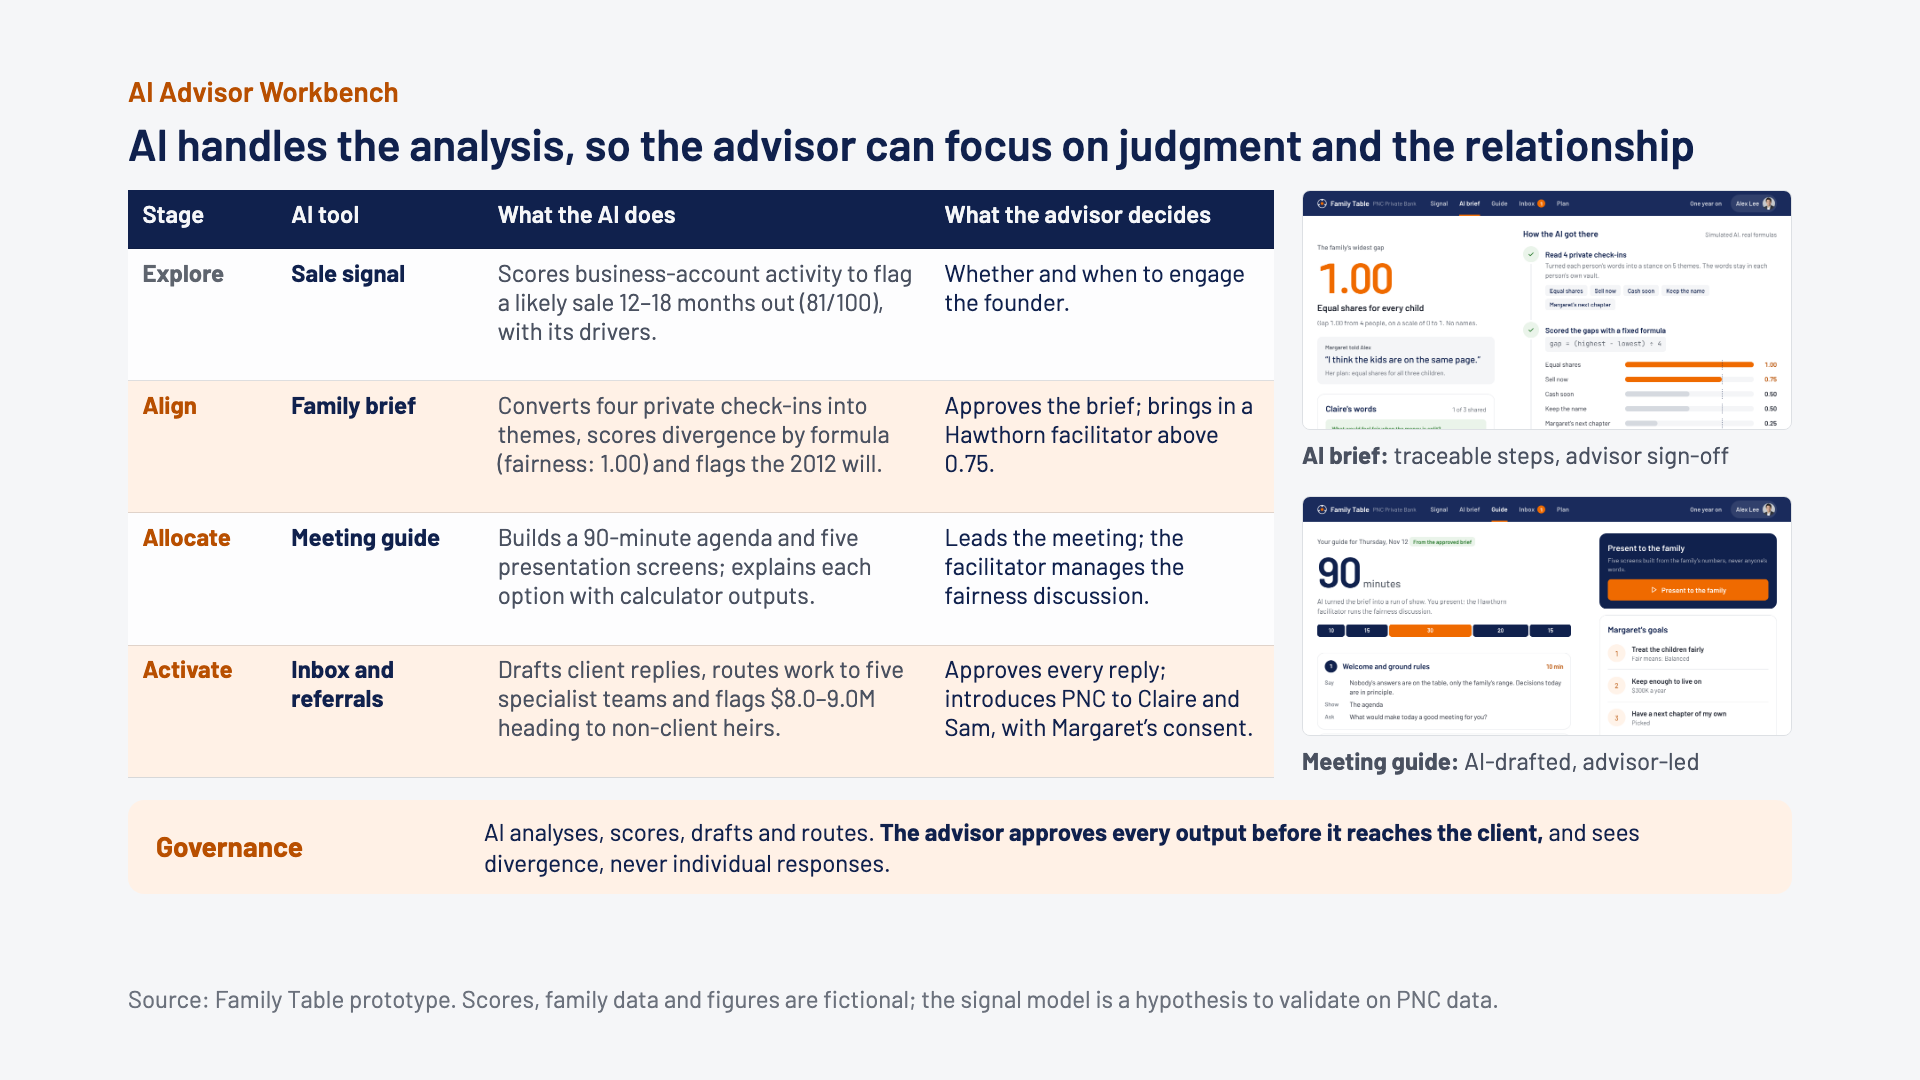
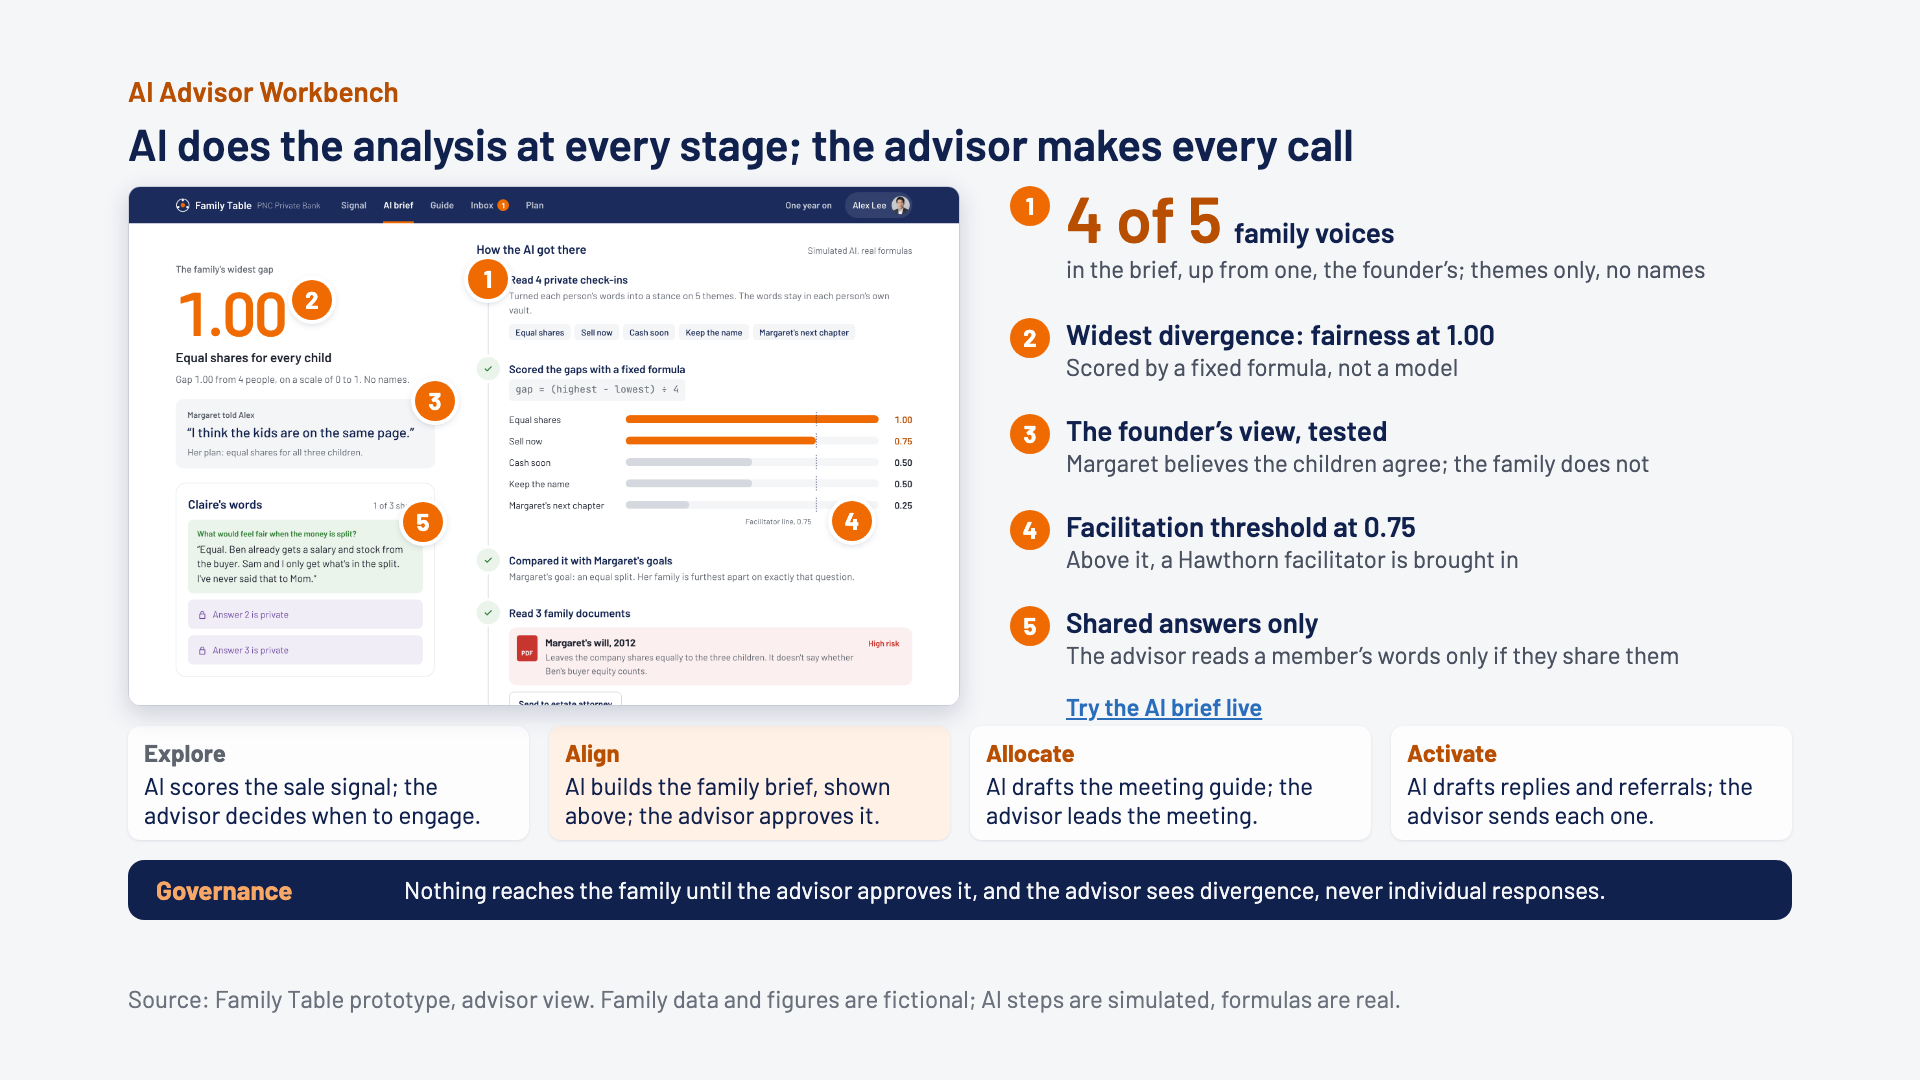
Advisor slide: annotated AI brief with five callouts, 4 of 5 voices as the proof point, AI-at-every-stage strip

Changed region(s): [[0.0625, 0.1222, 0.9375, 0.8556], [0.25, 0.9167, 0.7812, 0.9472]]

diff --git a/slides/claude_three/slides/advisor.html b/slides/claude_three/slides/advisor.html
@@ -1,28 +1,18 @@
-<section id="advisor" data-transition="fade" style="background:#F5F6F8;color:#10214D;font-family:'Barlow', Arial, sans-serif;padding:72px 128px 160px;display:flex;flex-direction:column;gap:22px">
+<section id="advisor" data-transition="fade" style="background:#F5F6F8;color:#10214D;font-family:'Barlow', Arial, sans-serif;padding:72px 128px 160px;display:flex;flex-direction:column;gap:20px">
+<img src="/_blob/6eb613845ab2e6ec5be912857ccf9d0f" alt="The advisor's AI brief: widest gap 1.00 on equal shares, Margaret's quote that the kids agree, Claire's one shared answer, and the AI's traceable steps with gap bars against a 0.75 facilitator line" style="position:absolute;left:128px;top:186px;width:832px;height:520px;object-fit:cover;object-position:top;border:1px solid #C9CED6;border-radius:12px;box-shadow:0px 8px 24px rgba(16,33,77,0.18)">
+<p style="position:absolute;left:468px;top:259px;width:40px;height:40px;font-size:24px;font-weight:700;line-height:1.67;color:#FFFFFF;background:#EF6A00;border-radius:50%;text-align:center;box-shadow:0px 0px 0px 4px #FFFFFF, 0px 2px 8px rgba(16,33,77,0.35)">1</p><p style="position:absolute;left:292px;top:280px;width:40px;height:40px;font-size:24px;font-weight:700;line-height:1.67;color:#FFFFFF;background:#EF6A00;border-radius:50%;text-align:center;box-shadow:0px 0px 0px 4px #FFFFFF, 0px 2px 8px rgba(16,33,77,0.35)">2</p><p style="position:absolute;left:415px;top:381px;width:40px;height:40px;font-size:24px;font-weight:700;line-height:1.67;color:#FFFFFF;background:#EF6A00;border-radius:50%;text-align:center;box-shadow:0px 0px 0px 4px #FFFFFF, 0px 2px 8px rgba(16,33,77,0.35)">3</p><p style="position:absolute;left:832px;top:501px;width:40px;height:40px;font-size:24px;font-weight:700;line-height:1.67;color:#FFFFFF;background:#EF6A00;border-radius:50%;text-align:center;box-shadow:0px 0px 0px 4px #FFFFFF, 0px 2px 8px rgba(16,33,77,0.35)">4</p><p style="position:absolute;left:403px;top:502px;width:40px;height:40px;font-size:24px;font-weight:700;line-height:1.67;color:#FFFFFF;background:#EF6A00;border-radius:50%;text-align:center;box-shadow:0px 0px 0px 4px #FFFFFF, 0px 2px 8px rgba(16,33,77,0.35)">5</p>
+<div style="position:absolute;left:1010px;top:186px;width:782px;display:flex;flex-direction:row;gap:16px"><p style="width:40px;height:40px;font-size:24px;font-weight:700;line-height:1.67;color:#FFFFFF;background:#EF6A00;border-radius:50%;text-align:center">1</p><div style="flex:1;display:flex;flex-direction:column;gap:2px"><div style="display:flex;flex-direction:row;gap:12px;align-items:baseline"><p style="font-size:64px;font-weight:600;line-height:1;color:#B84F00">4 of 5</p><p style="font-size:28px;font-weight:600;color:#10214D">family voices</p></div><p style="font-size:24px;line-height:1.25;color:#4A5160">in the brief, up from one, the founder’s; themes only, no names</p></div></div><div style="position:absolute;left:1010px;top:318px;width:782px;display:flex;flex-direction:row;gap:16px"><p style="width:40px;height:40px;font-size:24px;font-weight:700;line-height:1.67;color:#FFFFFF;background:#EF6A00;border-radius:50%;text-align:center">2</p><div style="flex:1;display:flex;flex-direction:column;gap:2px"><h3 style="font-size:28px;font-weight:600;line-height:1.15;color:#10214D">Widest divergence: fairness at 1.00</h3><p style="font-size:24px;line-height:1.25;color:#4A5160">Scored by a fixed formula, not a model</p></div></div><div style="position:absolute;left:1010px;top:414px;width:782px;display:flex;flex-direction:row;gap:16px"><p style="width:40px;height:40px;font-size:24px;font-weight:700;line-height:1.67;color:#FFFFFF;background:#EF6A00;border-radius:50%;text-align:center">3</p><div style="flex:1;display:flex;flex-direction:column;gap:2px"><h3 style="font-size:28px;font-weight:600;line-height:1.15;color:#10214D">The founder’s view, tested</h3><p style="font-size:24px;line-height:1.25;color:#4A5160">Margaret believes the children agree; the family does not</p></div></div><div style="position:absolute;left:1010px;top:510px;width:782px;display:flex;flex-direction:row;gap:16px"><p style="width:40px;height:40px;font-size:24px;font-weight:700;line-height:1.67;color:#FFFFFF;background:#EF6A00;border-radius:50%;text-align:center">4</p><div style="flex:1;display:flex;flex-direction:column;gap:2px"><h3 style="font-size:28px;font-weight:600;line-height:1.15;color:#10214D">Facilitation threshold at 0.75</h3><p style="font-size:24px;line-height:1.25;color:#4A5160">Above it, a Hawthorn facilitator is brought in</p></div></div><div style="position:absolute;left:1010px;top:606px;width:782px;display:flex;flex-direction:row;gap:16px"><p style="width:40px;height:40px;font-size:24px;font-weight:700;line-height:1.67;color:#FFFFFF;background:#EF6A00;border-radius:50%;text-align:center">5</p><div style="flex:1;display:flex;flex-direction:column;gap:2px"><h3 style="font-size:28px;font-weight:600;line-height:1.15;color:#10214D">Shared answers only</h3><p style="font-size:24px;line-height:1.25;color:#4A5160">The advisor reads a member’s words only if they share them</p></div></div>
+<p style="position:absolute;left:1066px;top:690px;width:700px;font-size:24px;font-weight:600"><a href="https://rzrizaldy.github.io/pnc_csl_2026/prototype/?reset#/advisor/align" style="color:#2A6EBB">Try the AI brief live</a></p>
 <div style="display:flex;flex-direction:column;gap:8px">
 <p style="font-size:28px;font-weight:600;color:#B84F00">AI Advisor Workbench</p>
-<h2 style="font-size:44px;font-weight:600;line-height:1.12;color:#10214D">AI handles the analysis, so the advisor can focus on judgment and the relationship</h2>
+<h2 style="font-size:44px;font-weight:600;line-height:1.12;color:#10214D">AI does the analysis at every stage; the advisor makes every call</h2>
 </div>
-<div style="display:flex;flex-direction:row;gap:28px">
-<table style="width:1146px;font-family:'Barlow', Arial, sans-serif;font-size:24px;color:#10214D">
-<tr style="background:#10214D"><th style="width:13%;color:#F5F6F8">Stage</th><th style="width:18%;color:#F5F6F8">AI tool</th><th style="width:39%;color:#F5F6F8">What the AI does</th><th style="width:30%;color:#F5F6F8">What the advisor decides</th></tr>
-<tr style="background:#FDFDFE"><td style="color:#5E646E"><b>Explore</b></td><td><b>Sale signal</b></td><td style="color:#4A5160">Scores business-account activity to flag a likely sale 12–18 months out (81/100), with its drivers.</td><td>Whether and when to engage the founder.</td></tr>
-<tr style="background:#FFF1E6"><td style="color:#B84F00"><b>Align</b></td><td><b>Family brief</b></td><td style="color:#4A5160">Converts four private check-ins into themes, scores divergence by formula (fairness: 1.00) and flags the 2012 will.</td><td>Approves the brief; brings in a Hawthorn facilitator above 0.75.</td></tr>
-<tr style="background:#FDFDFE"><td style="color:#B84F00"><b>Allocate</b></td><td><b>Meeting guide</b></td><td style="color:#4A5160">Builds a 90-minute agenda and five presentation screens; explains each option with calculator outputs.</td><td>Leads the meeting; the facilitator manages the fairness discussion.</td></tr>
-<tr style="background:#FFF1E6"><td style="color:#B84F00"><b>Activate</b></td><td><b>Inbox and referrals</b></td><td style="color:#4A5160">Drafts client replies, routes work to five specialist teams and flags $8.0–9.0M heading to non-client heirs.</td><td>Approves every reply; introduces PNC to Claire and Sam, with Margaret’s consent.</td></tr>
-</table>
-<div style="flex:1;display:flex;flex-direction:column;gap:8px">
-<img src="/_blob/e28ff431a61dd2cc888fb85e2d6329ba" alt="AI brief: the widest gap is 1.00 on equal shares, against Margaret's belief that the kids agree, with each AI step shown" style="width:490px;height:240px;object-fit:cover;object-position:top;border:1px solid #DDE0E4;border-radius:8px">
-<p style="font-size:24px;color:#4A5160"><b>AI brief:</b> traceable steps, advisor sign-off</p>
-<div style="height:8px"></div>
-<img src="/_blob/f6f8d993b93b82da60e607184f52e4e6" alt="Meeting guide: a 90-minute run of show in five segments, with a button to present to the family" style="width:490px;height:240px;object-fit:cover;object-position:top;border:1px solid #DDE0E4;border-radius:8px">
-<p style="font-size:24px;color:#4A5160"><b>Meeting guide:</b> AI-drafted, advisor-led</p>
+<div style="height:530px"></div>
+<div style="display:flex;flex-direction:row;gap:20px"><div style="flex:1;display:flex;flex-direction:column;gap:2px;padding:10px 16px;border-radius:12px;background:#FDFDFE;box-shadow:0px 1px 3px rgba(16,33,77,0.10)"><p style="font-size:24px;font-weight:700;color:#5E646E">Explore</p><p style="font-size:24px;line-height:1.2;color:#10214D">AI scores the sale signal; the advisor decides when to engage.</p></div><div style="flex:1;display:flex;flex-direction:column;gap:2px;padding:10px 16px;border-radius:12px;background:#FFF1E6;box-shadow:0px 1px 3px rgba(16,33,77,0.10)"><p style="font-size:24px;font-weight:700;color:#B84F00">Align</p><p style="font-size:24px;line-height:1.2;color:#10214D">AI builds the family brief, shown above; the advisor approves it.</p></div><div style="flex:1;display:flex;flex-direction:column;gap:2px;padding:10px 16px;border-radius:12px;background:#FDFDFE;box-shadow:0px 1px 3px rgba(16,33,77,0.10)"><p style="font-size:24px;font-weight:700;color:#B84F00">Allocate</p><p style="font-size:24px;line-height:1.2;color:#10214D">AI drafts the meeting guide; the advisor leads the meeting.</p></div><div style="flex:1;display:flex;flex-direction:column;gap:2px;padding:10px 16px;border-radius:12px;background:#FDFDFE;box-shadow:0px 1px 3px rgba(16,33,77,0.10)"><p style="font-size:24px;font-weight:700;color:#B84F00">Activate</p><p style="font-size:24px;line-height:1.2;color:#10214D">AI drafts replies and referrals; the advisor sends each one.</p></div></div>
+<div style="display:flex;flex-direction:row;gap:28px;align-items:center;background:#10214D;border-radius:16px;padding:12px 28px">
+<p style="width:220px;font-size:26px;font-weight:700;color:#F7A766">Governance</p>
+<p style="flex:1;font-size:24px;line-height:1.3;color:#F5F6F8">Nothing reaches the family until the advisor approves it, and the advisor sees divergence, never individual responses.</p>
 </div>
-</div>
-<div style="display:flex;flex-direction:row;gap:28px;align-items:center;background:#FFF1E6;border-radius:16px;padding:16px 28px">
-<p style="width:300px;font-size:28px;font-weight:700;line-height:1.1;color:#B84F00">Governance</p>
-<p style="flex:1;font-size:24px;line-height:1.3;color:#10214D">AI analyses, scores, drafts and routes. <b>The advisor approves every output before it reaches the client,</b> and sees divergence, never individual responses.</p>
-</div>
-<p style="position:absolute;left:128px;bottom:64px;width:1664px;font-size:24px;color:#6B717C">Source: Family Table prototype. Scores, family data and figures are fictional; the signal model is a hypothesis to validate on PNC data.</p>
-<aside>The advisor workbench, stage by stage. In Explore, PNC’s own business-account data flags a likely sale a year before closing, and the advisor decides whether to engage. Then one AI tool for each core stage. Align: the family brief carries the core insight. Margaret believes her children agree, but the family’s widest divergence is on fairness, shown as a range with no names; Document AI also flags the 2012 will. Allocate: the AI turns the brief into a 90-minute agenda with presentation screens, and every figure comes from the calculator. Activate: the AI drafts client replies for the advisor to approve, routes work to five specialist teams, and flags the $8 to 9 million heading to heirs who bank elsewhere. The governance rule holds throughout: the advisor approves every output before any client action. This addresses Alex’s friction: hearing only the founder, undocumented concerns, and capabilities spread across business units.</aside>
+<p style="position:absolute;left:128px;bottom:64px;width:1664px;font-size:24px;color:#6B717C">Source: Family Table prototype, advisor view. Family data and figures are fictional; AI steps are simulated, formulas are real.</p>
+<aside>This is the advisor’s AI brief, the workbench at the Align stage, and it shows the advisor model in one screen. First, the proof point: four of five family members are now in the brief, up from one, the founder; the AI reads their private check-ins into themes, with no names. Second, the widest divergence is fairness, at 1.00, scored by a fixed formula rather than a model. Third, that tests the founder’s view: Margaret believes her children agree, and the family does not. Fourth, a gap above 0.75 brings in a Hawthorn facilitator, so human facilitation arrives before tension surfaces. Fifth, the advisor reads a member’s words only if that member chose to share them. The strip below shows the same pattern at every stage: in Explore the AI scores the sale signal, in Align it builds this brief, in Allocate it drafts the meeting guide, and in Activate it drafts replies and referrals; at each stage the advisor makes the call. Governance holds throughout: nothing reaches the family until the advisor approves it.</aside>
 </section>

diff --git a/video/src/slides_check.js b/video/src/slides_check.js
@@ -9,6 +9,7 @@ const BIN = path.join(process.env.HOME, "Library/Caches/ms-playwright/chromium_h
 const [root, out] = process.argv.slice(2);
 const SHOTS = path.join(__dirname, "../../prototype/shots");
 const BLOBS = {
+  "6eb613845ab2e6ec5be912857ccf9d0f": "../../slides/claude_three/raw_land/brief_hero.png",
   "7a443fab7cc85da3af9e053f8f822af8": "../../slides/claude_three/raw_land/p3_checkin.png",
   "1be6eb346b1834d3dbd6ae0bc9948737": "../../slides/claude_three/raw_land/p4_decide.png",
   "4aef0e68153783241b74dfe501e7ea06": "../../slides/claude_three/raw_land/p5_ask.png",
